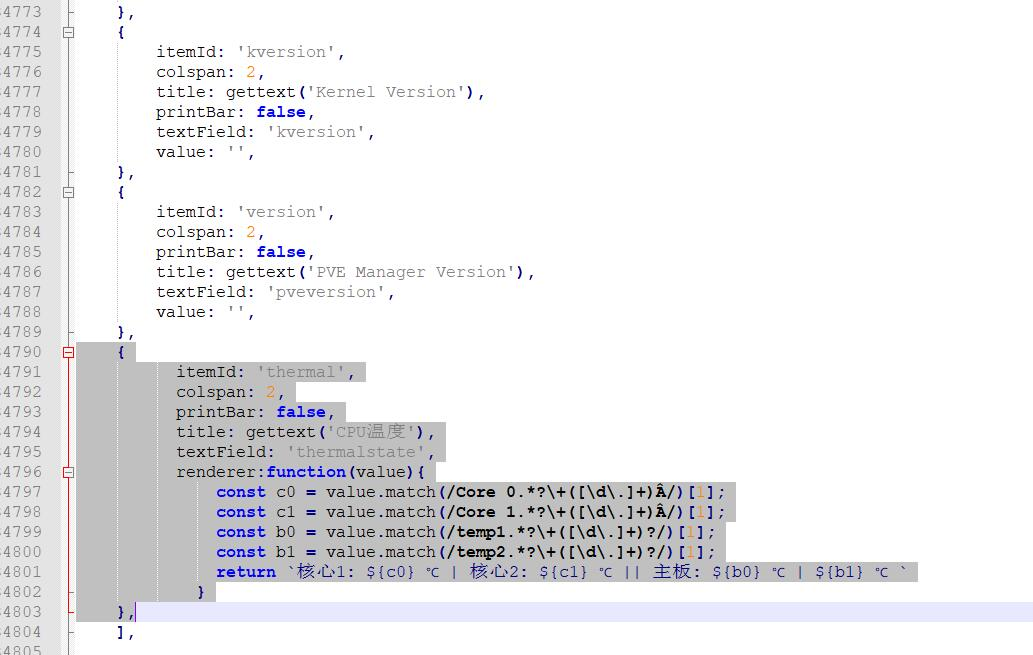
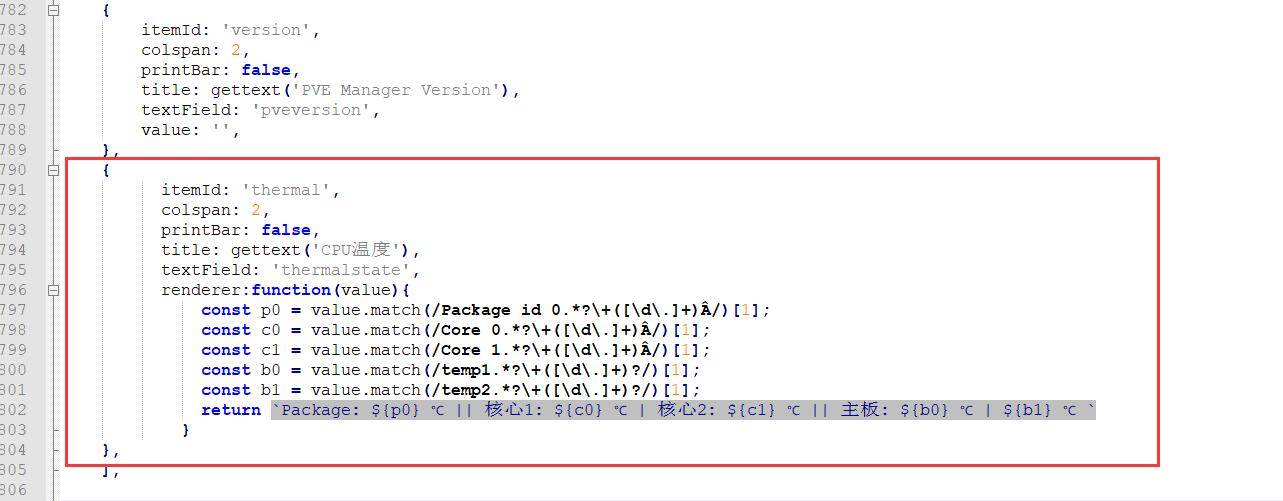
update

Changed region(s): [[0.0, 0.0, 0.8984, 1.0], [0.8984, 0.8982, 0.9293, 0.9281]]

diff --git a/README.md b/README.md
@@ -153,11 +153,12 @@ $res->{thermalstate} = `sensors`;
           title: gettext('CPU温度'),
           textField: 'thermalstate',
           renderer:function(value){
+              const p0 = value.match(/Package id 0.*?\+([\d\.]+)Â/)[1];
               const c0 = value.match(/Core 0.*?\+([\d\.]+)Â/)[1];
               const c1 = value.match(/Core 1.*?\+([\d\.]+)Â/)[1];
               const b0 = value.match(/temp1.*?\+([\d\.]+)?/)[1];
               const b1 = value.match(/temp2.*?\+([\d\.]+)?/)[1];
-              return `核心1: ${c0} ℃ | 核心2: ${c1} ℃ || 主板: ${b0} ℃ | ${b1} ℃ `
+              return `Package: ${p0} ℃ || 核心1: ${c0} ℃ | 核心2: ${c1} ℃ || 主板: ${b0} ℃ | ${b1} ℃ `
             }
     },
 ```
@@ -179,13 +180,14 @@ $res->{thermalstate} = `sensors`;
           title: gettext('CPU温度'),
           textField: 'thermalstate',
           renderer:function(value){
+              const p0 = value.match(/Package id 0.*?\+([\d\.]+)Â/)[1];
               const c0 = value.match(/Core 0.*?\+([\d\.]+)Â/)[1];
               const c1 = value.match(/Core 1.*?\+([\d\.]+)Â/)[1];
-			  const c2 = value.match(/Core 2.*?\+([\d\.]+)Â/)[1];
-			  const c3 = value.match(/Core 3.*?\+([\d\.]+)Â/)[1];
-			  const b0 = value.match(/temp1.*?\+([\d\.]+)?/)[1];
-			  const b1 = value.match(/temp2.*?\+([\d\.]+)?/)[1];
-              return `核心1: ${c0} ℃ | 核心2: ${c1} ℃ | 核心3: ${c2} ℃ | 核心4: ${c3} ℃ || 主板: ${b0} ℃ | ${b1} ℃ `
+              const c2 = value.match(/Core 2.*?\+([\d\.]+)Â/)[1];
+              const c3 = value.match(/Core 3.*?\+([\d\.]+)Â/)[1];
+              const b0 = value.match(/temp1.*?\+([\d\.]+)?/)[1];
+              const b1 = value.match(/temp2.*?\+([\d\.]+)?/)[1];
+              return `Package: ${p0} ℃ || 核心1: ${c0} ℃ | 核心2: ${c1} ℃ | 核心3: ${c2} ℃ | 核心4: ${c3} ℃ || 主板: ${b0} ℃ | ${b1} ℃ `
             }
     },	  
 ```
@@ -195,7 +197,7 @@ $res->{thermalstate} = `sensors`;
 ![jpg](./pic/5.jpg)
 
 
-增加的2个核心温度就是如红框内这样。所以自己设备几个核心，按需修改。
+增加核心增加参数：const c2/const c3，下面显示参数也要加：核心3: ${c2} ℃ | 核心4: ${c3} ℃ 。所以自己设备几个核心，按需修改。
 
 修改完保存，然后塞回路径。
 
